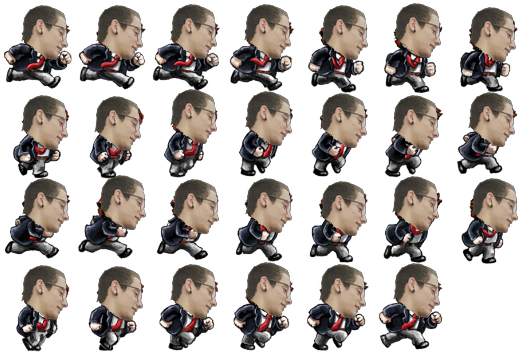
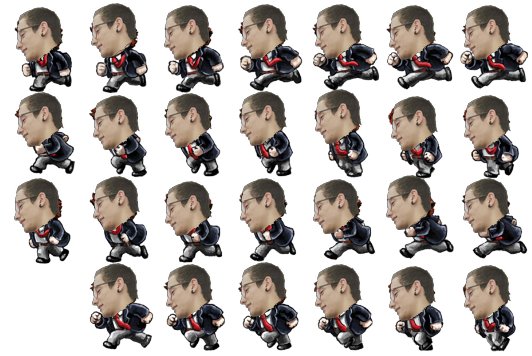
Add files via upload

diff --git a/main.py b/main.py
@@ -3,16 +3,15 @@
 
 import pygame
 import random
-from Objects.Player import *
 from Objects.Level import *
-img1 = pygame.image.load('Images/Pjs/PJSebas.png')
-
+from Objects.Player import *
 
 #Definicion de Variables
 ancho = 1200
 alto = 650
 TIC = 20
 i1 = 0
+i2 = 6
 
 if __name__ == '__main__':
 #Inicializacion de Pygame
@@ -30,16 +29,17 @@ if __name__ == '__main__':
 
 	#CREACION DE OBJETOS
 
-
-	#Nivel 1
-	Lvl1 = Level()
-	Lvls.add(Lvl1)
-	todos.add(Lvl1)
 	#Jugador
 	Jugador = Player(100, 500)
 	Players.add(Jugador)
 	todos.add(Jugador)
 	#Jugador 2 ()
+
+	#Nivel 1
+	Lvl1 = Level()
+	Lvls.add(Lvl1)
+	todos.add(Lvl1)
+
 
 
 
@@ -63,7 +63,8 @@ while not close:
 				Jugador.vel_y = 0
 				mirada = False
 				i2 = 0
-
+			elif event.key == pygame.K_g:
+				Jugador.saltar = True
 			
 			if event.key == pygame.K_s:
 				Jugador.saltar = True
@@ -77,15 +78,33 @@ while not close:
 #------------------------------------------------------------------------------ Movimiento de sprites
 	if(Jugador.vel_x>0):#movimiento a la derecha
 		Jugador.cut=CortarImagen(img1,i1,1,7,4)
-		print i1
+		Jugador.dir = True
 		if i1 >=6:
 			i1 = 0
 		else:
 			i1 +=1
-	if(Jugador.vel<0):
+	if(Jugador.vel_x<0):#movimiento a la izquierda
+		Jugador.cut=CortarImagen(img2, i2,1, 7, 4)
+		Jugador.dir = False
+		if i2<=0:
+			i2 = 6
+		else:
+			i2 -=1
+
+	if(Jugador.vel_x==0):#Sin movimiento
+		#Evaluar direccion
+		if Jugador.dir:
+			Jugador.cut = CortarImagen(img1, 6, 2, 7, 4)
+		else:
+			Jugador.cut = CortarImagen(img2, 0, 2, 7, 4)
+
+
+		'''
+	if(Jugador.vel_x<0):
 		Jugador.cut=CortarImagen(img2, i2, 7, 4)
-	todos.update()
+	'''
 	todos.draw(Screen)
+	todos.update()
 	pygame.display.flip()
 	reloj.tick(TIC)
 

diff --git a/Objects/Level.py b/Objects/Level.py
@@ -1,8 +1,7 @@
 import pygame
 import random
 
-#Imagenes
-img1 = pygame.image.load('Images/Lvl-1/Mapa.png')
+screen = pygame.image.load('Images/Lvl-1/Mapa.png')
 
 def CortarImagen (image, x, y, eX, eY):
 	info=image.get_rect()
@@ -16,9 +15,11 @@ def CortarImagen (image, x, y, eX, eY):
 class Level(pygame.sprite.Sprite):
 	def __init__(self):
 		pygame.sprite.Sprite.__init__(self)
-		self.cut = CortarImagen(img1, 0, 0, 1, 1)
+		self.cut = CortarImagen(screen, 0, 0, 1, 1)
 		self.image = self.cut
 		self.rect = self.image.get_rect()
 		self.rect.x = 0
 		self.rect.y = 0
+	def update(self):
+		self.image = self.cut
 				

diff --git a/Objects/Player.py b/Objects/Player.py
@@ -2,7 +2,7 @@ import pygame
 import random
 
 img1 = pygame.image.load('Images/Pjs/PJSebas.png')
-img2 = pygame.image.load('Images/Pjs/PJSebas.png')
+img2 = pygame.image.load('Images/Pjs/PJSebas2.png')
 
 def CortarImagen (image, x, y, eX, eY):
 	info=image.get_rect()
@@ -24,8 +24,9 @@ class Player(pygame.sprite.Sprite):
 		self.rect.y = py
 		self.vel_x = 0
 		self.vel_y = 0
+		self.dir = True
 		self.disp = False
-		self.saltar = False
+		self.saltar	 = False
 	def update(self):
 		self.image = self.cut
 		self.disp = False
